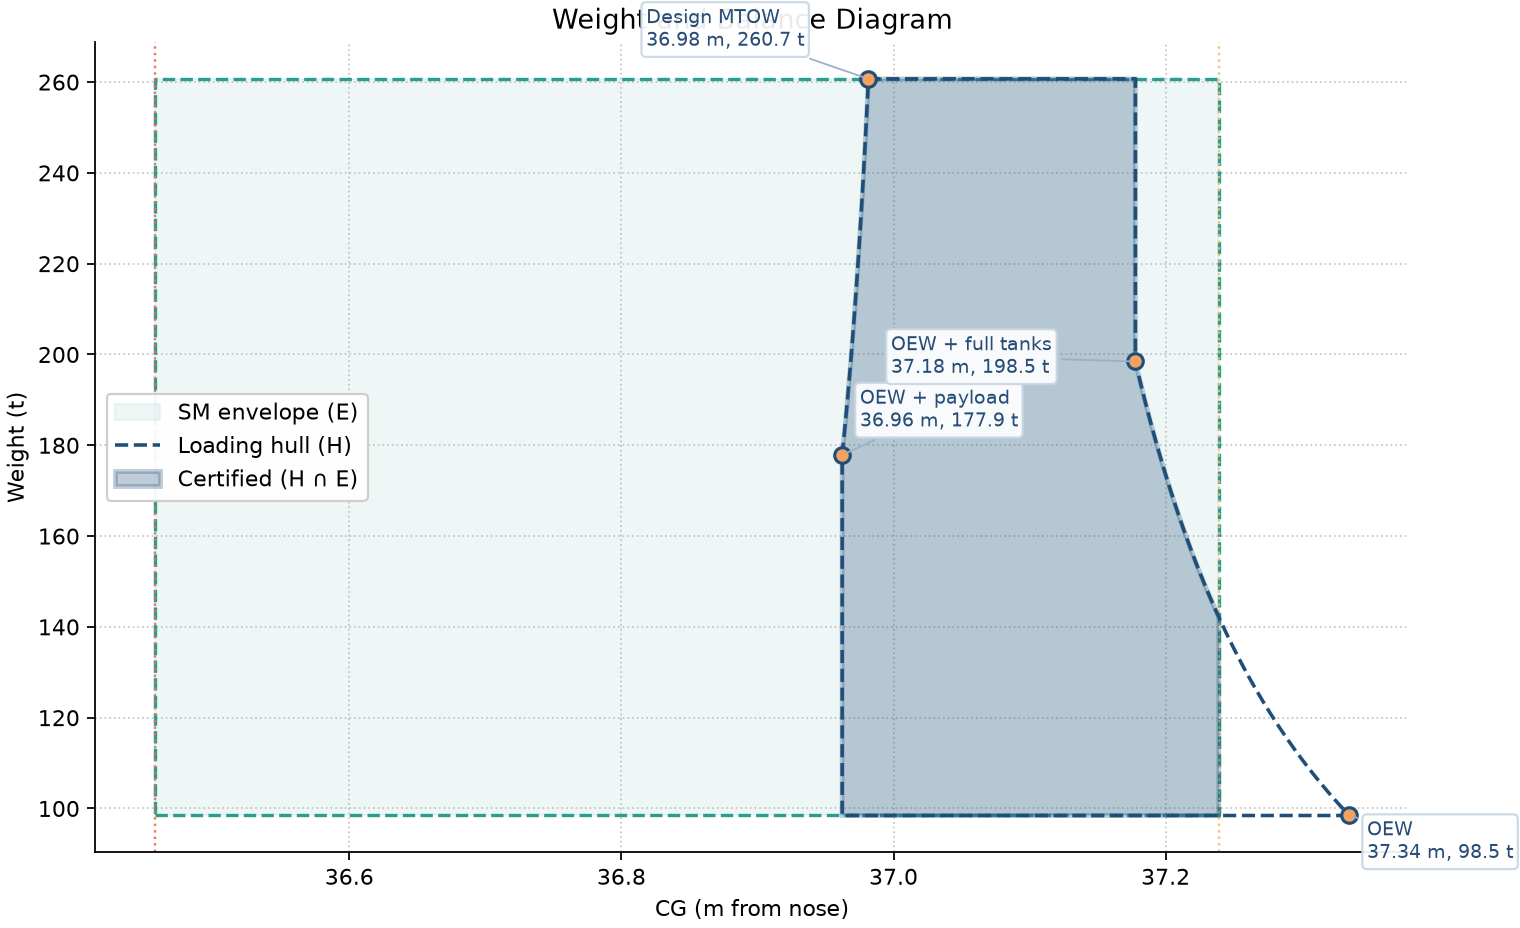
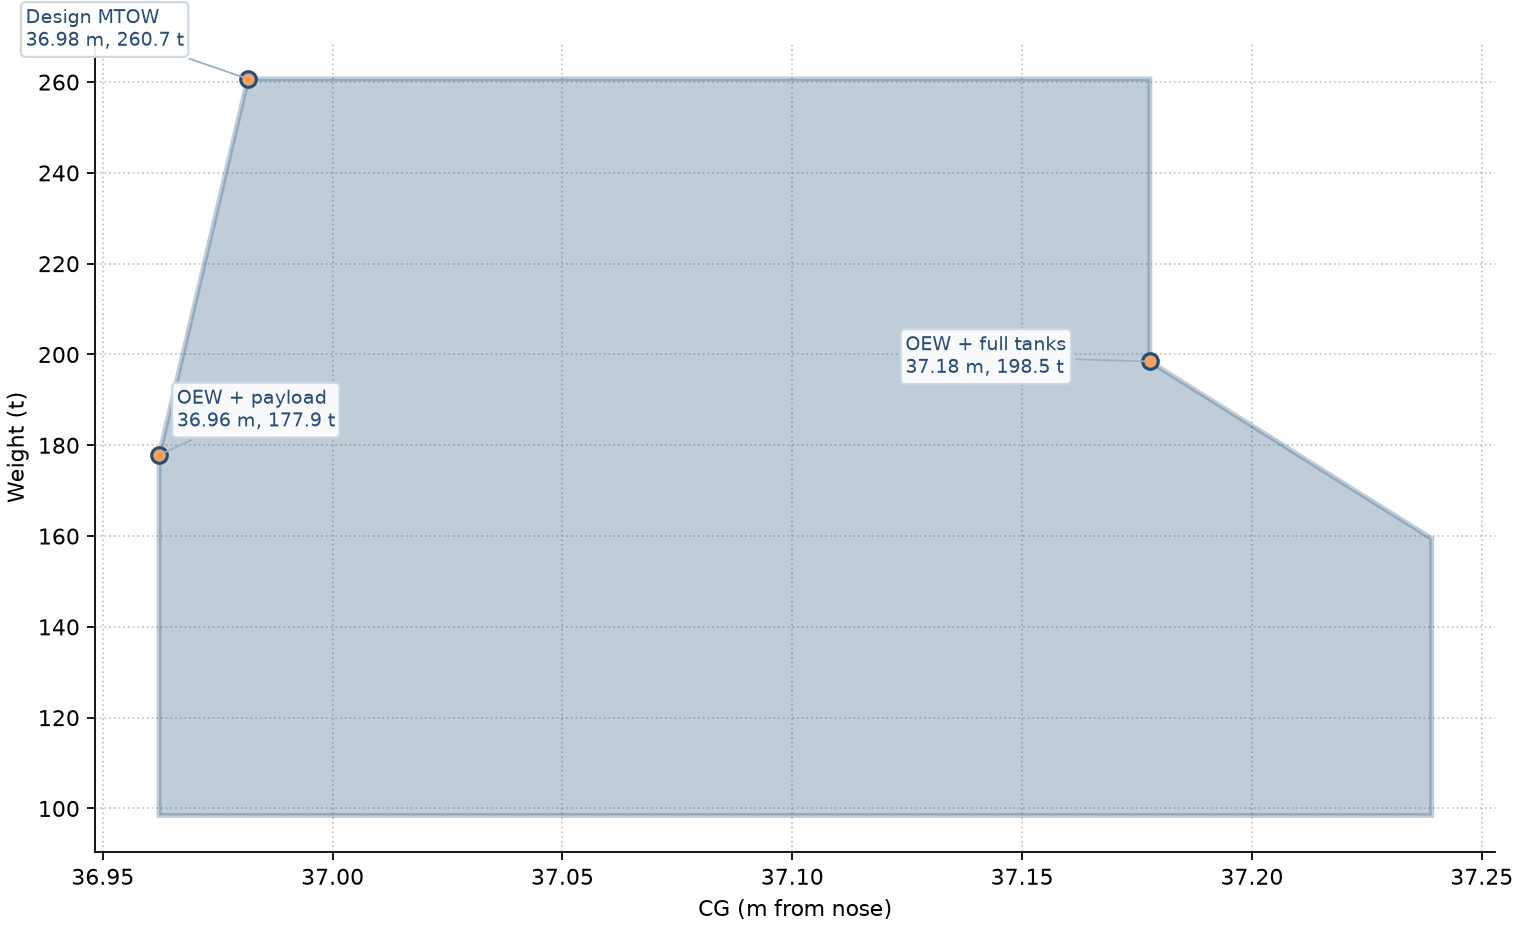
remove clutter from graphs

diff --git a/tools/weight_calc.py b/tools/weight_calc.py
@@ -426,7 +426,6 @@ def write_payload_range_diagram(
 
     ax.set_xlabel("Range (km)")
     ax.set_ylabel("Payload (t)")
-    ax.set_title("Payload–Range Diagram")
     ax.set_xlim(left=0)
     ax.set_ylim(bottom=0)
     ax.grid(True, which="major", linestyle=":", linewidth=0.8, alpha=0.7)
@@ -470,22 +469,6 @@ def _state_point(specs, oew, w_payload, w_fuel, label=None):
     return point
 
 
-def sample_tank_fill(specs, oew, w_payload, w_fuel_start, w_fuel_end, n_points=41):
-    """
-    CG vs weight while changing wing fuel at fixed payload.
-
-    With a single tank CG station:
-    x_CG(W) = x_f + W_ZFW (x_ZFW - x_f) / W
-    """
-    if n_points < 2:
-        raise ValueError(f"n_points must be >= 2, got {n_points}")
-    fuels = [
-        w_fuel_start + (w_fuel_end - w_fuel_start) * i / (n_points - 1)
-        for i in range(n_points)
-    ]
-    return [_state_point(specs, oew, w_payload, wf) for wf in fuels]
-
-
 def _box_corner(cg_m, weight_t):
     """Synthetic boundary point for rectilinear payload edges (not a load state)."""
     return {
@@ -507,33 +490,16 @@ def box_payload_edge(p_start, p_end):
     return [p_start, knee, p_end]
 
 
-def sample_mtow_trade(
-    specs, oew, mtow, w_payload_start, w_payload_end, n_points=41
-):
-    """Constant-MTOW edge: W_p + W_f = MTOW − OEW."""
-    if n_points < 2:
-        raise ValueError(f"n_points must be >= 2, got {n_points}")
-    samples = []
-    for i in range(n_points):
-        frac = i / (n_points - 1)
-        wp = w_payload_start + frac * (w_payload_end - w_payload_start)
-        wf = mtow - oew - wp
-        samples.append(_state_point(specs, oew, wp, wf))
-    return samples
-
-
-def loading_hull_boundary(
-    specs, oew, mtow, w_payload_max, w_fuel_max, n_points=41
-):
+def loading_hull_boundary(specs, oew, mtow, w_payload_max, w_fuel_max):
     """
     Closed boundary of loading hull H (conservative, certification-style).
 
-    Fuel edges: tank fill / drain (fixed tank CG). Payload edges: rectilinear
-    box steps between corner vertices (not single-station payload hyperbolas).
+    All edges are straight: payload edges use rectilinear box steps; fuel fill /
+    drain and the constant-MTOW trade connect corner vertices with lines.
 
     Walk from OEW:
-      ZFW box edge → max-payload tank fill → MTOW trade →
-      full-fuel box edge → zero-payload tank drain.
+      ZFW box edge → max-payload fuel line → MTOW trade →
+      full-fuel box edge → zero-payload fuel line.
     """
     w_fuel_design = mtow - oew - w_payload_max
     w_payload_full = mtow - oew - w_fuel_max
@@ -564,12 +530,10 @@ def loading_hull_boundary(
 
     segments = [
         box_payload_edge(corners[0], corners[1]),
-        sample_tank_fill(specs, oew, w_payload_max, 0.0, w_fuel_design, n_points),
-        sample_mtow_trade(
-            specs, oew, mtow, w_payload_max, w_payload_full, n_points
-        ),
+        [corners[1], corners[2]],
+        [corners[2], mtow_full_tanks],
         box_payload_edge(mtow_full_tanks, corners[3]),
-        sample_tank_fill(specs, oew, 0.0, w_fuel_max, 0.0, n_points),
+        [corners[3], corners[0]],
     ]
 
     boundary = []
@@ -577,7 +541,6 @@ def loading_hull_boundary(
         pts = seg if i == 0 else seg[1:]
         boundary.extend(pts)
     return boundary, corners
-
 
 def _clip_poly_to_rect(vertices, x_min, x_max, y_min, y_max):
     """Sutherland–Hodgman clip of polygon [(x,y), ...] to axis-aligned rectangle."""
@@ -633,12 +596,11 @@ def write_weight_balance_diagram(
     out_path,
     sm_min=SM_MIN,
     sm_max=SM_MAX,
-    n_boundary=41,
 ):
     """
-    Weight–CG diagram: certified region H ∩ E.
+    Weight–CG diagram: certified region H ∩ E only.
 
-    H  = loading hull (boxy payload edges + hyperbolic fuel fills), W≤MTOW
+    H  = loading hull (straight payload / fuel edges), W≤MTOW
     E  = SM envelope [OEW, MTOW] × [x_fwd, x_aft]
 
     CG axis in metres from nose; weight axis in tonnes.
@@ -666,7 +628,6 @@ def write_weight_balance_diagram(
         mtow,
         w_payload_max=w_payload,
         w_fuel_max=w_fuel_max,
-        n_points=n_boundary,
     )
 
     oew_t = oew / 1e3
@@ -674,43 +635,8 @@ def write_weight_balance_diagram(
     poly_h = [(p["cg_m"], p["weight_t"]) for p in boundary_h]
     poly_cert = _clip_poly_to_rect(poly_h, x_fwd_m, x_aft_m, oew_t, mtow_t)
 
-    envelope_cg = [x_fwd_m, x_aft_m, x_aft_m, x_fwd_m, x_fwd_m]
-    envelope_w = [oew_t, oew_t, mtow_t, mtow_t, oew_t]
-    h_cgs = [p[0] for p in poly_h] + [poly_h[0][0]]
-    h_ws = [p[1] for p in poly_h] + [poly_h[0][1]]
-
     fig, ax = plt.subplots(figsize=(9.5, 5.8), layout="constrained")
 
-    # SM envelope E
-    ax.fill(
-        envelope_cg,
-        envelope_w,
-        color="#2a9d8f",
-        alpha=0.08,
-        zorder=1,
-        label="SM envelope (E)",
-    )
-    ax.plot(
-        envelope_cg,
-        envelope_w,
-        color="#2a9d8f",
-        linewidth=1.5,
-        linestyle="--",
-        zorder=2,
-    )
-
-    # Loading hull H outline (dashed; certified fill sits on top inside E)
-    ax.plot(
-        h_cgs,
-        h_ws,
-        color="#1f4e79",
-        linewidth=1.6,
-        linestyle="--",
-        zorder=3,
-        label="Loading hull (H)",
-    )
-
-    # Certified H ∩ E (fill + edge only; no duplicate solid trace)
     if len(poly_cert) >= 3:
         cert_cgs = [p[0] for p in poly_cert] + [poly_cert[0][0]]
         cert_ws = [p[1] for p in poly_cert] + [poly_cert[0][1]]
@@ -722,12 +648,16 @@ def write_weight_balance_diagram(
             alpha=0.28,
             linewidth=2.2,
             zorder=4,
-            label=r"Certified (H $\cap$ E)",
         )
 
+    # Drop design corners outside the SM CG band (e.g. OEW aft of x_aft).
+    corners_in = [
+        p for p in corners if x_fwd_m <= p["cg_m"] <= x_aft_m
+    ]
+
     ax.plot(
-        [p["cg_m"] for p in corners],
-        [p["weight_t"] for p in corners],
+        [p["cg_m"] for p in corners_in],
+        [p["weight_t"] for p in corners_in],
         linestyle="None",
         marker="o",
         markersize=7,
@@ -737,17 +667,17 @@ def write_weight_balance_diagram(
         zorder=6,
     )
 
-    label_offsets = [
-        (8, -22),
-        (8, 10),
-        (-100, 12),
-        (-110, -8),
-    ]
-    for p, offset in zip(corners, label_offsets):
+    label_offsets = {
+        "OEW": (8, -22),
+        "OEW + payload": (8, 10),
+        "Design MTOW": (-100, 12),
+        "OEW + full tanks": (-110, -8),
+    }
+    for p in corners_in:
         ax.annotate(
             f"{p['label']}\n{p['cg_m']:.2f} m, {p['weight_t']:.1f} t",
             xy=(p["cg_m"], p["weight_t"]),
-            xytext=offset,
+            xytext=label_offsets.get(p["label"], (8, 10)),
             textcoords="offset points",
             fontsize=8.5,
             color="#274c77",
@@ -767,14 +697,9 @@ def write_weight_balance_diagram(
             zorder=7,
         )
 
-    ax.axvline(x_fwd_m, color="#e76f51", linestyle=":", linewidth=1.1, alpha=0.9, zorder=2)
-    ax.axvline(x_aft_m, color="#e9c46a", linestyle=":", linewidth=1.1, alpha=0.9, zorder=2)
-
     ax.set_xlabel("CG (m from nose)")
     ax.set_ylabel("Weight (t)")
-    ax.set_title("Weight and Balance Diagram")
     ax.grid(True, which="major", linestyle=":", linewidth=0.8, alpha=0.7)
-    ax.legend(loc="best", framealpha=0.95)
     ax.spines["top"].set_visible(False)
     ax.spines["right"].set_visible(False)
 
@@ -794,7 +719,7 @@ def write_weight_balance_diagram(
             "np_m": np_mm * 1e-3,
             "mac_m": mac_mm * 1e-3,
         },
-        "points": corners,
+        "points": corners_in,
         "certified": {
             "n_vertices": len(poly_cert),
             "cg_min_m": min((p[0] for p in poly_cert), default=None),
